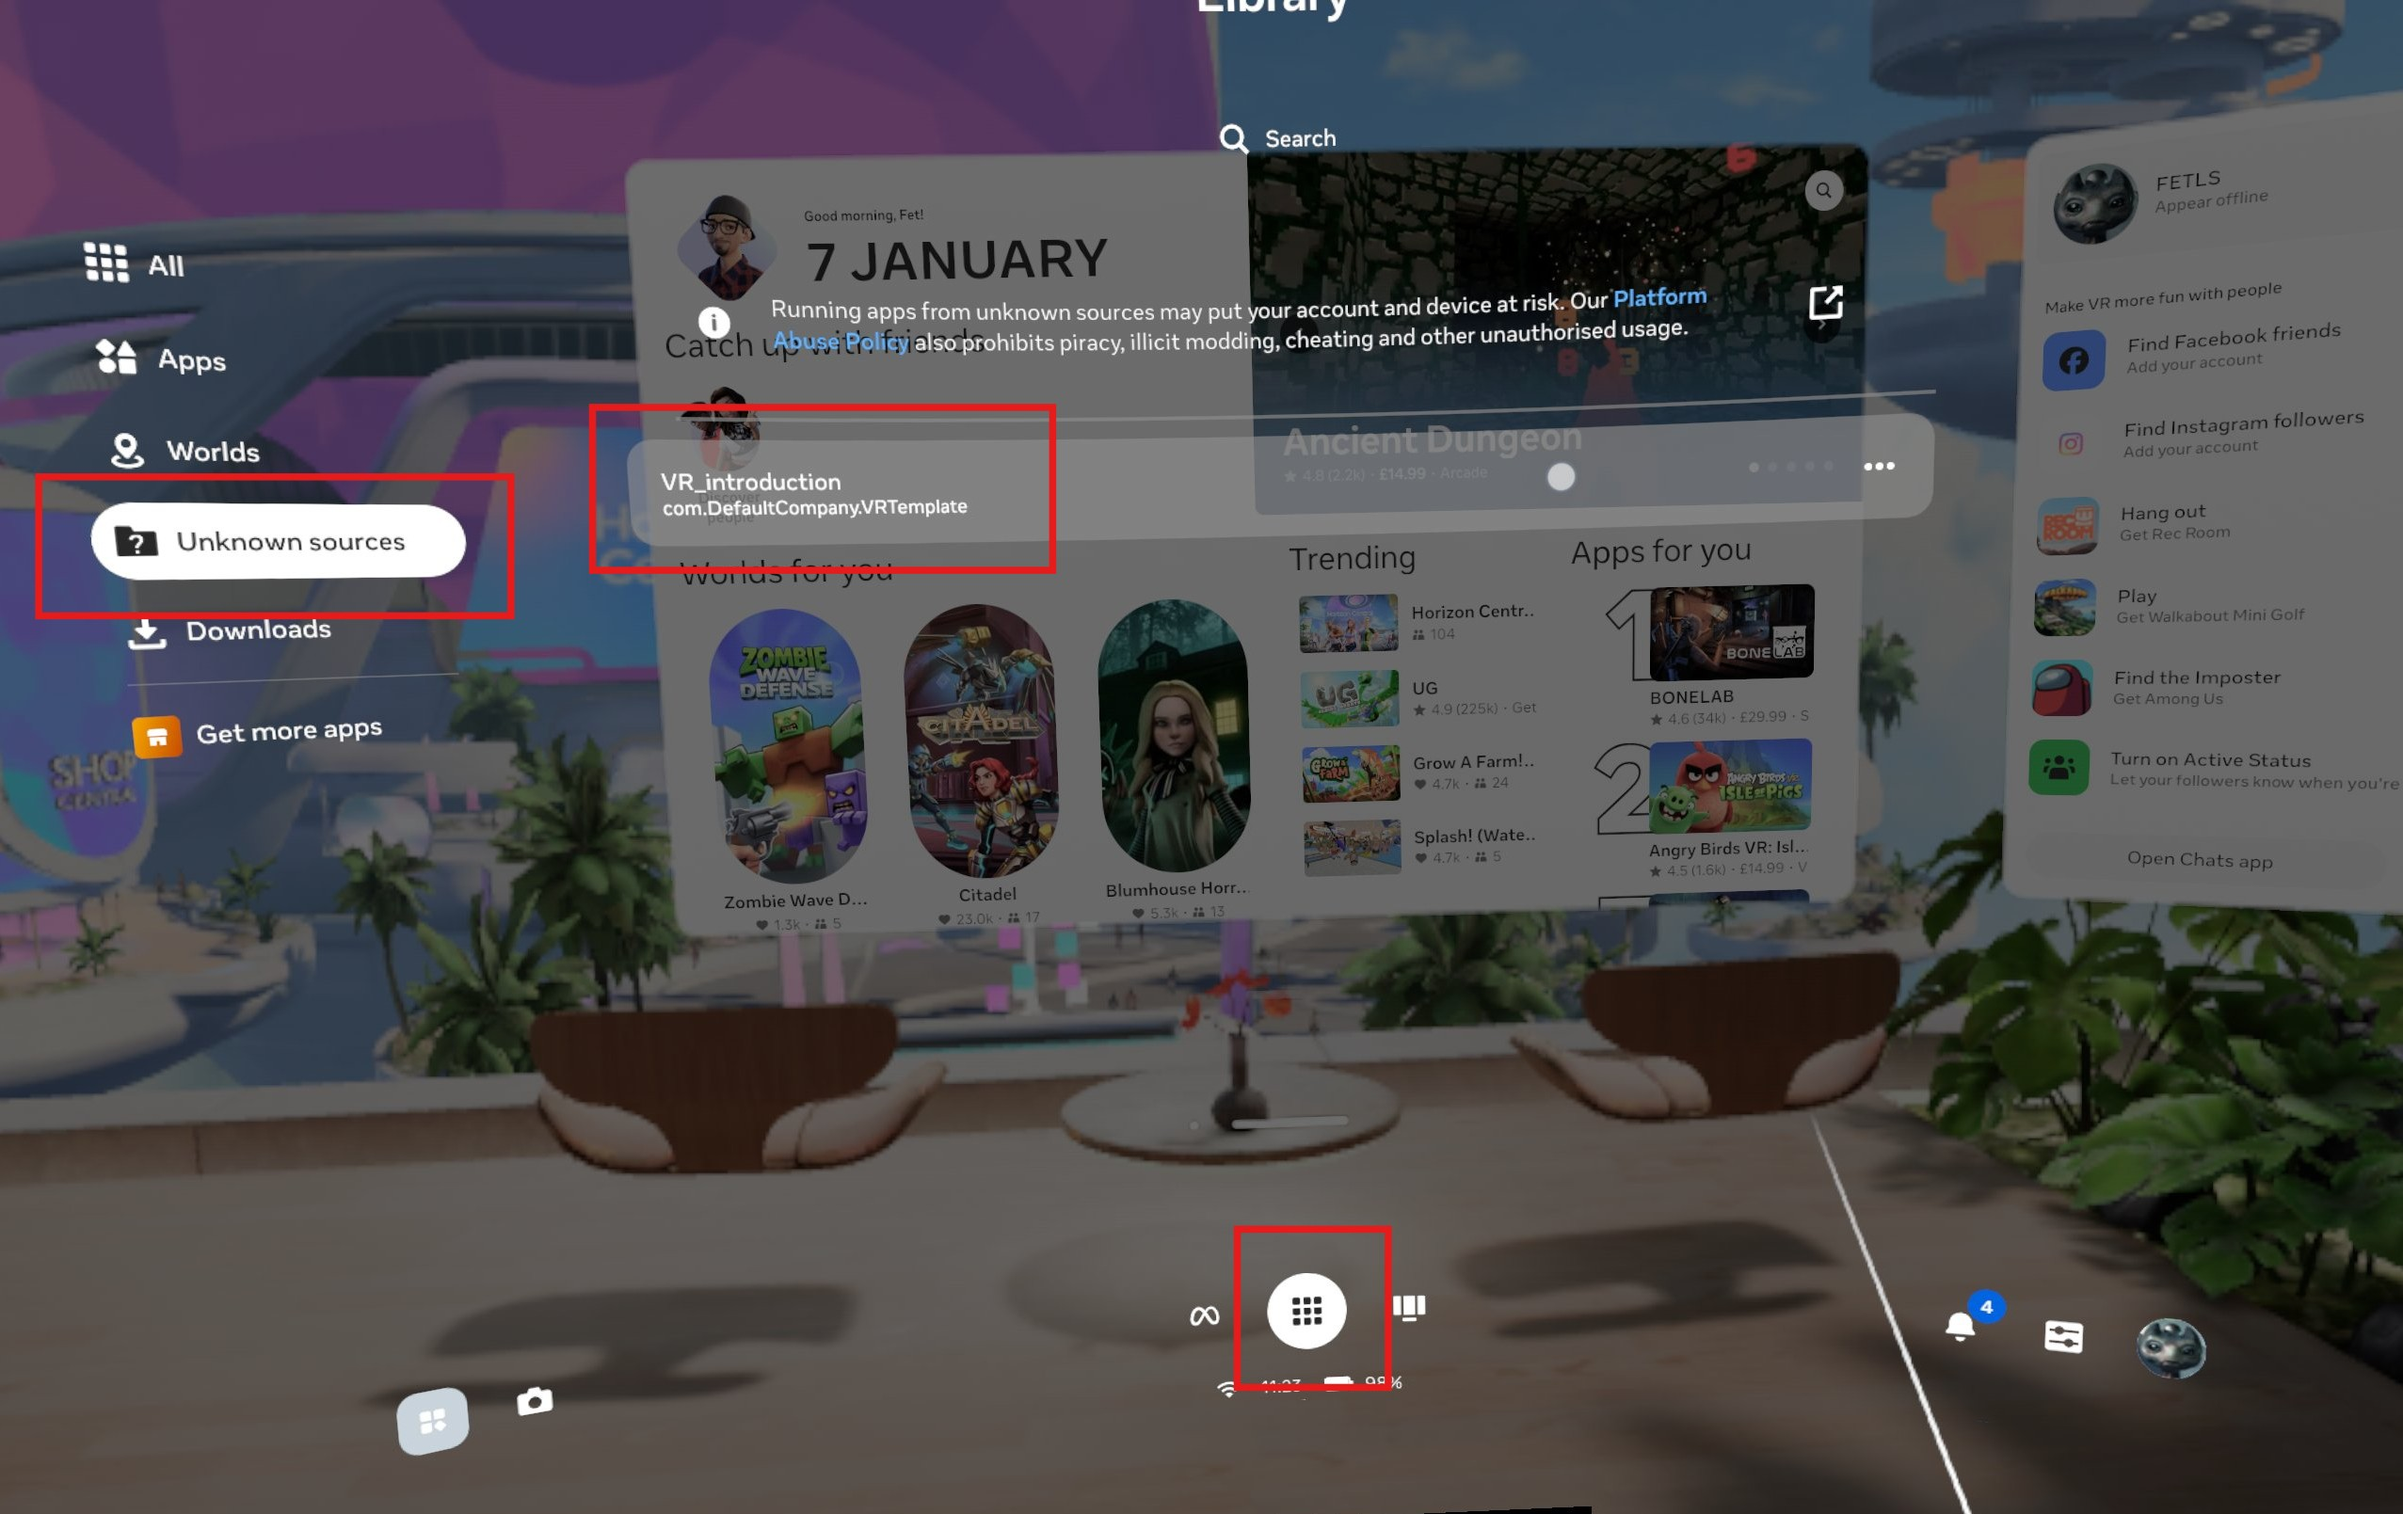
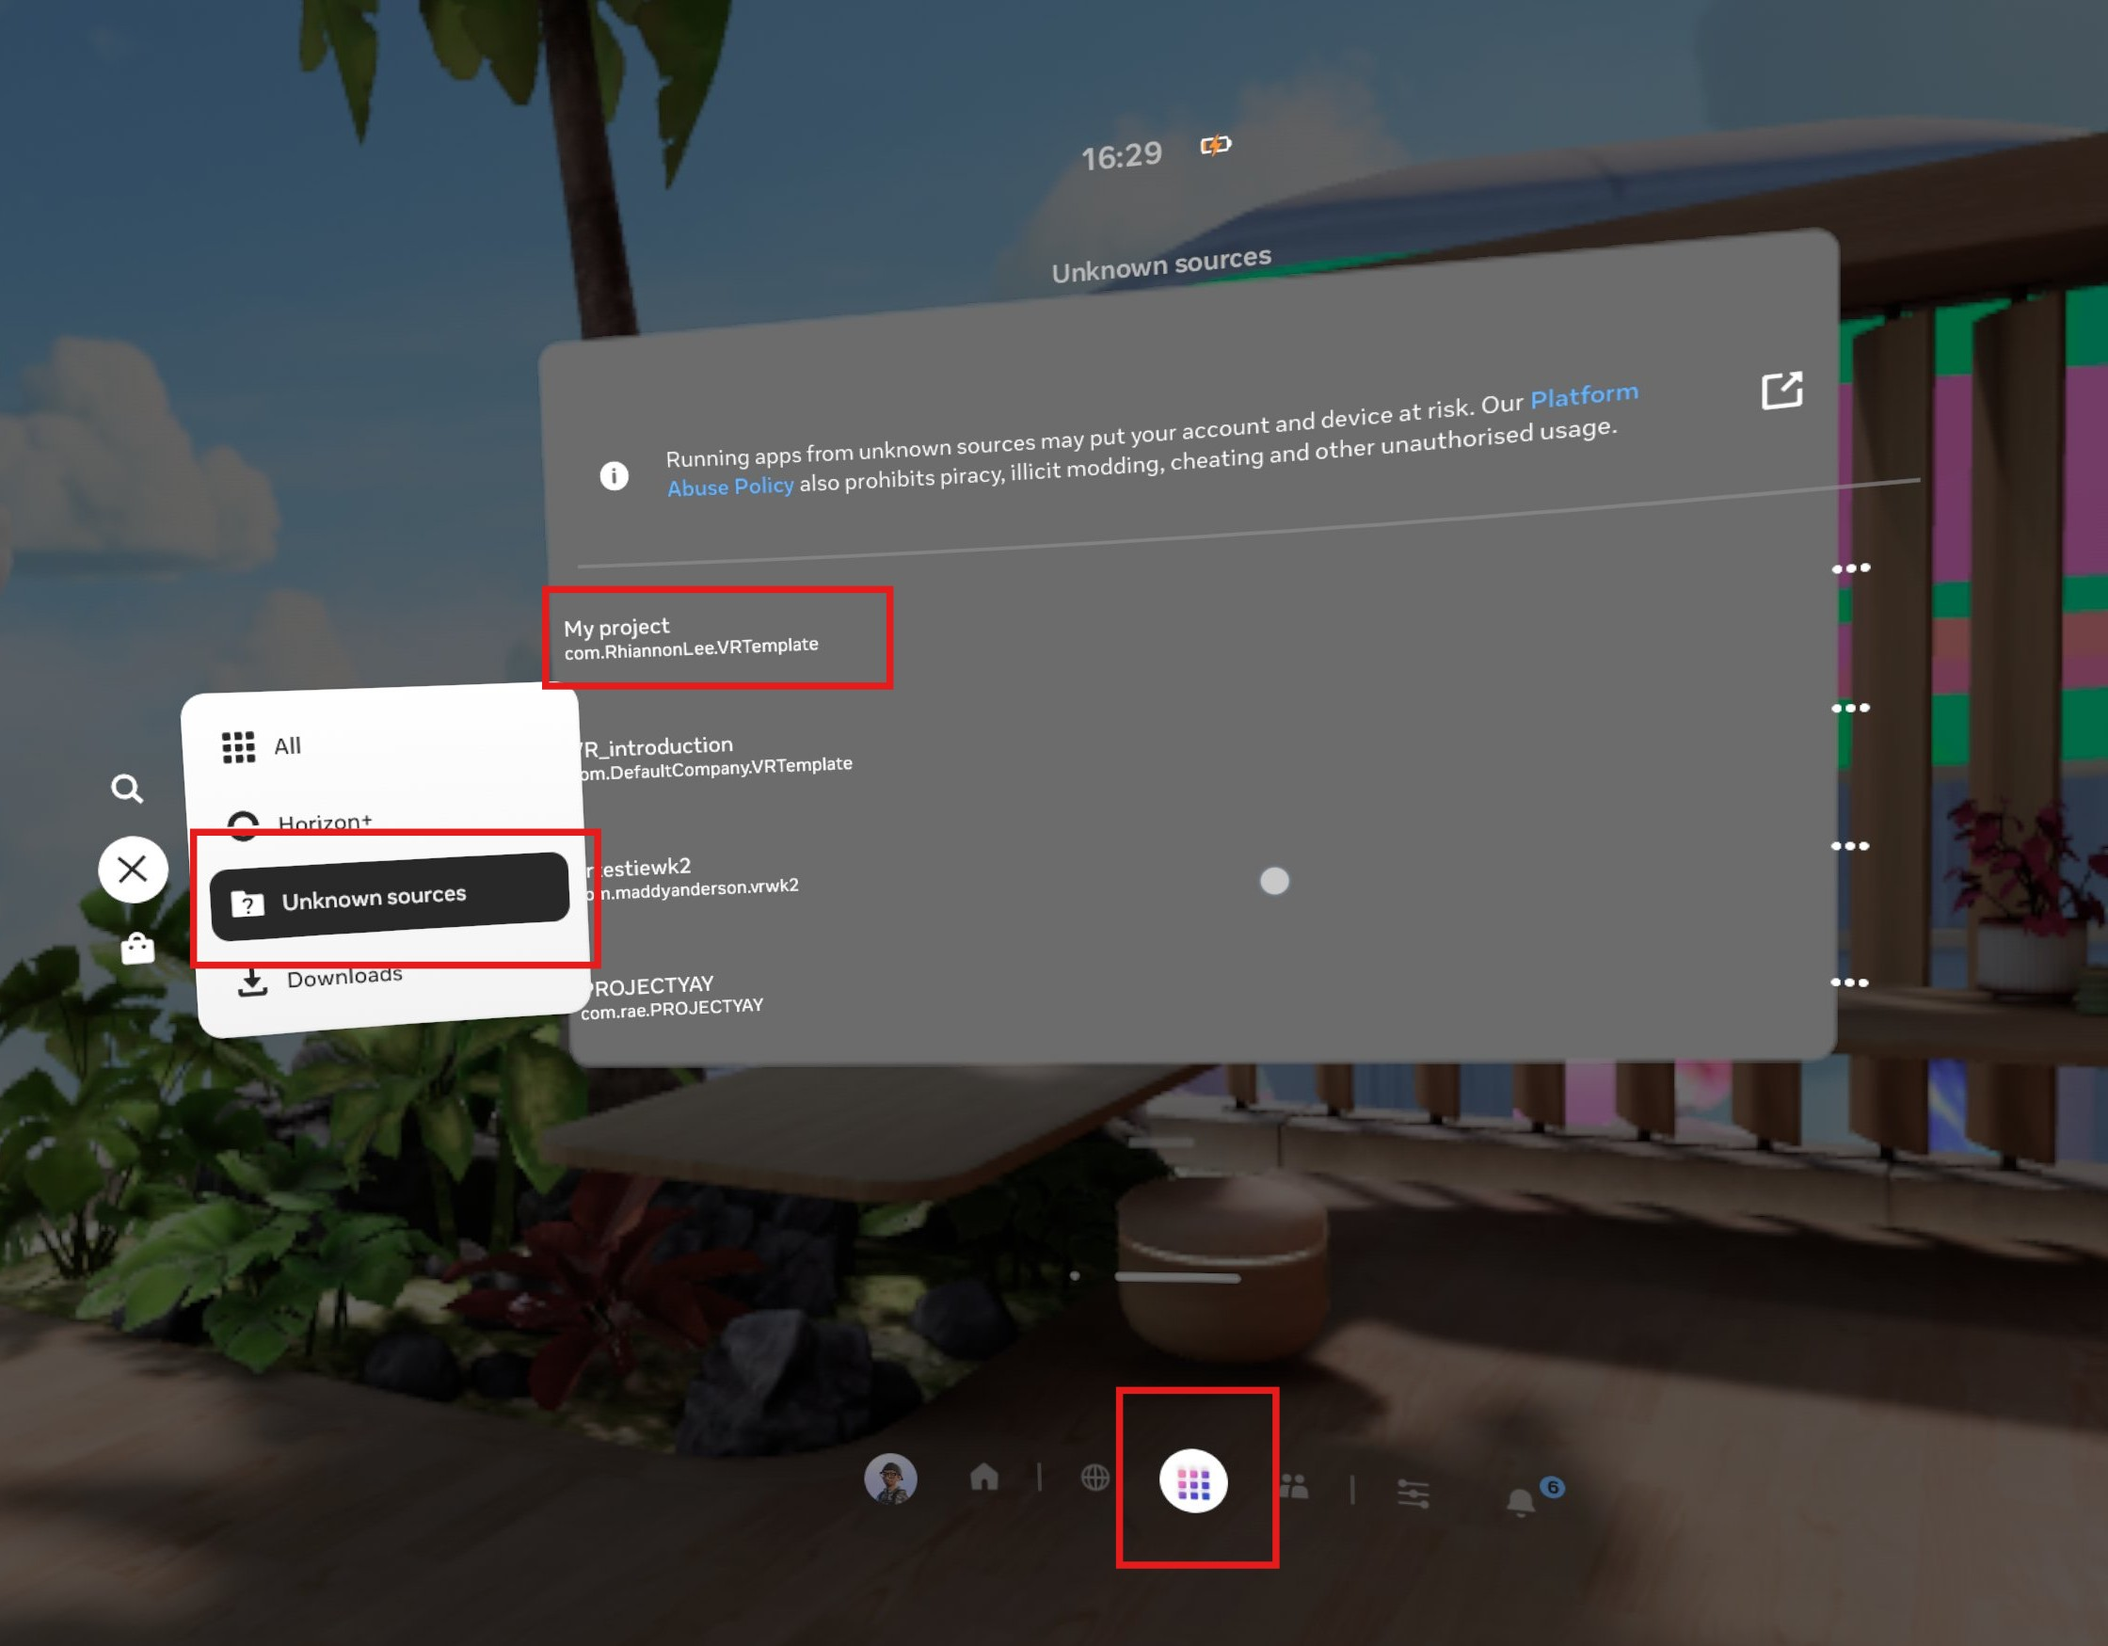
updated unknow sources

diff --git a/week_14-VR-introduction/README.md b/week_14-VR-introduction/README.md
@@ -129,6 +129,10 @@ To open the app on your headset:
 ![meta button on controller](images/metaButton.jpg)
 
 - Select the apps button in the center bottom
+- Select the menu button ( 3 lines on the left of the screen)
+
+![select app on headset](images/unknown_sources_menu.jpg)
+
 - Select **Unknown Sources**
 - Select the app you want to run
 
